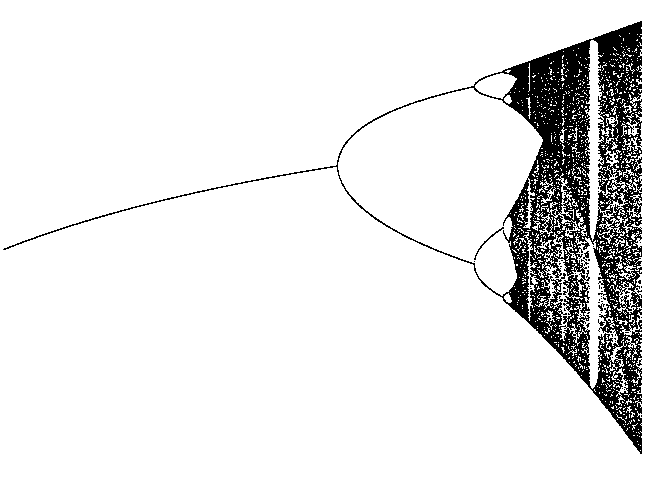
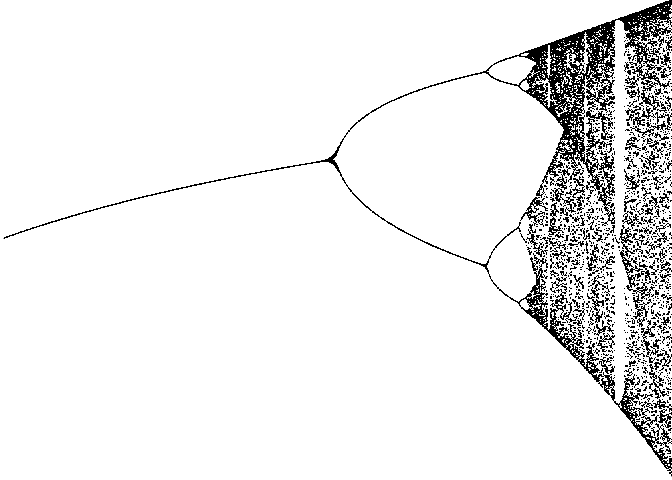
Reimplement the logistic map in C++ using Rcpp.

diff --git a/src/RcppExports.cpp b/src/RcppExports.cpp
@@ -1,0 +1,29 @@
+// Generated by using Rcpp::compileAttributes() -> do not edit by hand
+// Generator token: 10BE3573-1514-4C36-9D1C-5A225CD40393
+
+#include <Rcpp.h>
+
+using namespace Rcpp;
+
+// iter_logmap_c
+NumericVector iter_logmap_c(double r, int maxit);
+RcppExport SEXP _chaos_iter_logmap_c(SEXP rSEXP, SEXP maxitSEXP) {
+BEGIN_RCPP
+    Rcpp::RObject rcpp_result_gen;
+    Rcpp::RNGScope rcpp_rngScope_gen;
+    Rcpp::traits::input_parameter< double >::type r(rSEXP);
+    Rcpp::traits::input_parameter< int >::type maxit(maxitSEXP);
+    rcpp_result_gen = Rcpp::wrap(iter_logmap_c(r, maxit));
+    return rcpp_result_gen;
+END_RCPP
+}
+
+static const R_CallMethodDef CallEntries[] = {
+    {"_chaos_iter_logmap_c", (DL_FUNC) &_chaos_iter_logmap_c, 2},
+    {NULL, NULL, 0}
+};
+
+RcppExport void R_init_chaos(DllInfo *dll) {
+    R_registerRoutines(dll, NULL, CallEntries, NULL, NULL);
+    R_useDynamicSymbols(dll, FALSE);
+}

diff --git a/src/iter.cpp b/src/iter.cpp
@@ -1,0 +1,27 @@
+#include <vector>
+#include <Rcpp.h>
+
+using namespace std;
+using namespace Rcpp;
+
+// [[Rcpp::export]]
+NumericVector iter_logmap_c(double r, int maxit = 100) {
+  double x0 = .5;
+  double x;
+  int warmup = 100;
+  NumericVector y(maxit);
+
+  for (int k = 0; k < warmup; k++) {
+    x = r * x0 * (1 - x0);
+    x0 = x;
+  }
+
+  for (int k = 0; k < maxit; k++) {
+    x = r * x0 * (1 - x0);
+    //cout << "x: " << x << endl;
+    y[k] = x;
+    x0 = x;
+  }
+  return unique(y);
+}
+

diff --git a/README.md b/README.md
@@ -14,13 +14,9 @@ To install `chaos`:
 
 ``` r
 library(chaos)
-```
-
-    ## Loading required package: ggplot2
-
-``` r
-x <- logistic_map(rstep = 1e-3)
-plot(x, xlim = c(2, 4)) + theme_void()
+library(ggplot2)
+x <- logmap(2, 4)
+plot(x) + theme_void()
 ```
 
 ![](README_files/figure-gfm/logmap-1.png)<!-- -->
